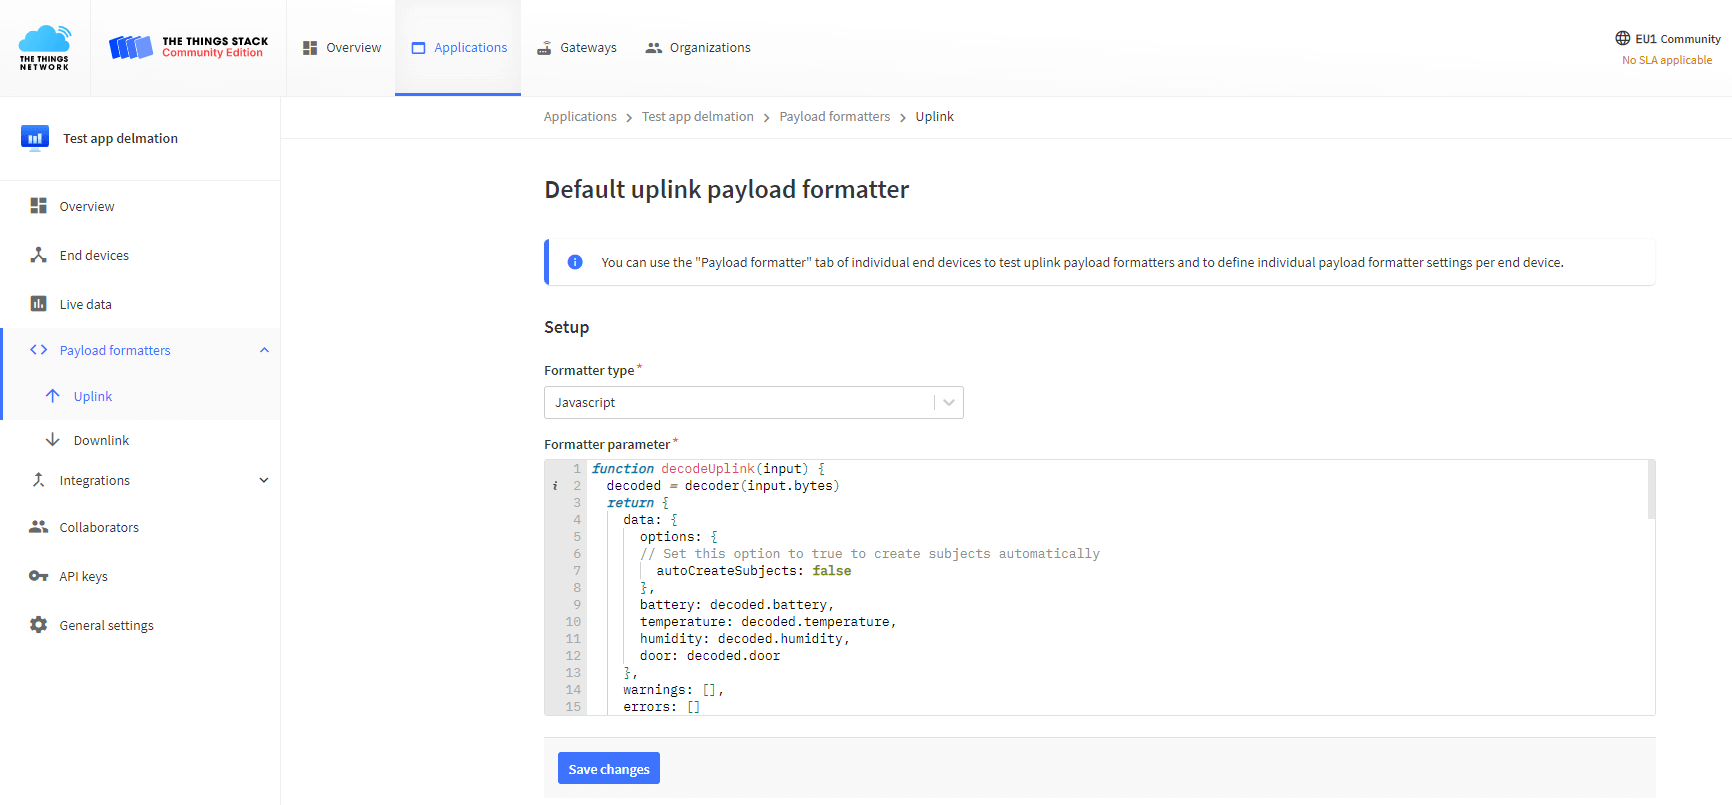
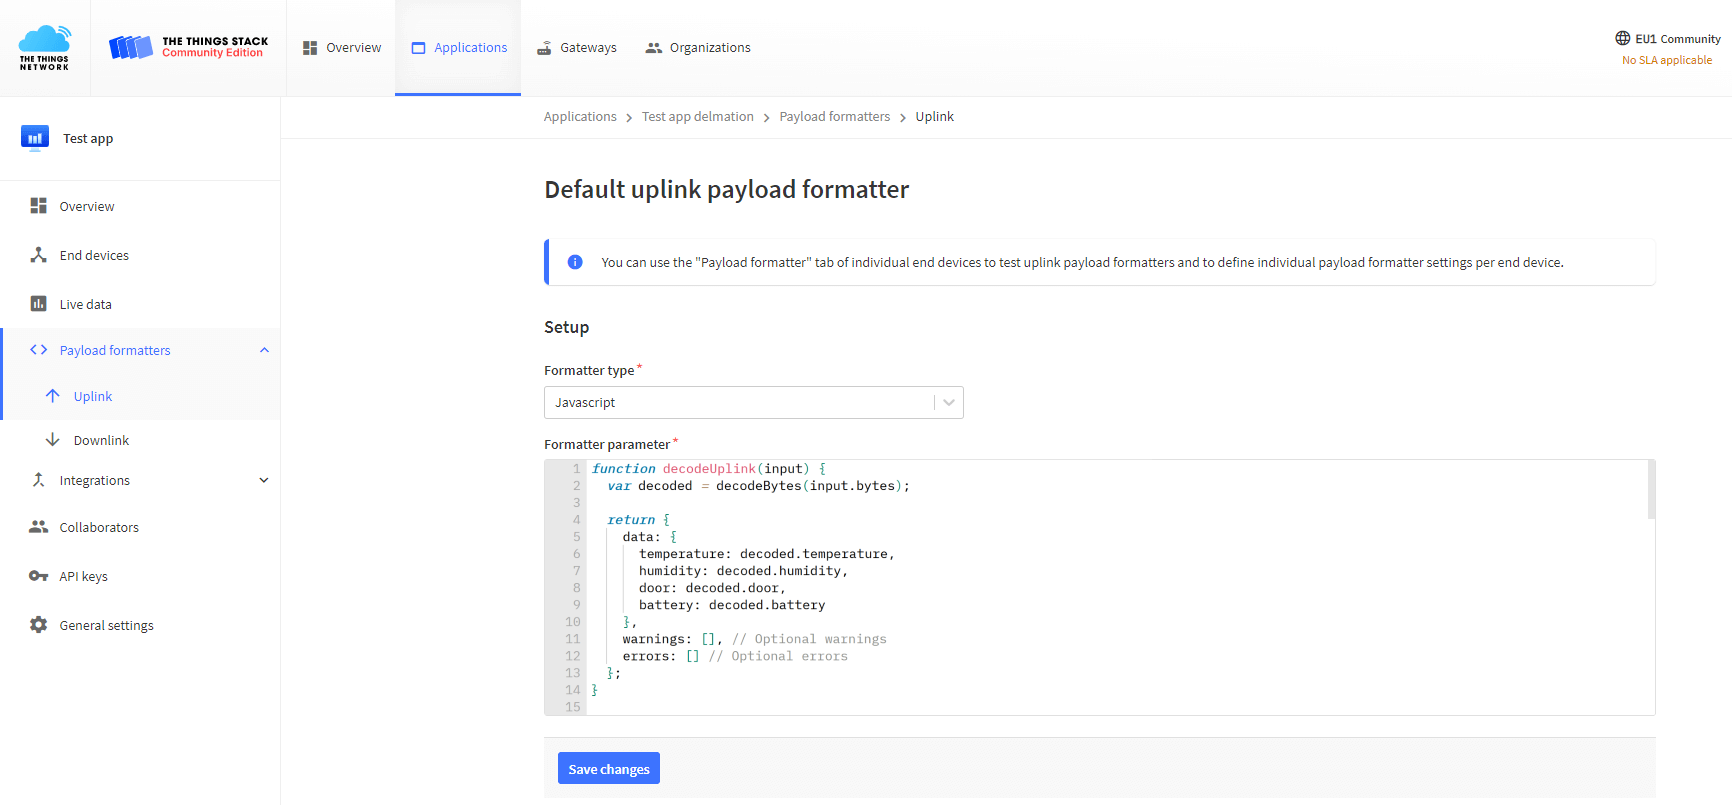
doc: Update Blockbax integration docs (#753)
* Moved the auto-create subjects payload parameter to webhook settings
* Update image accordingly
* Other small tweaks

Changed region(s): [[0.343, 0.559, 0.6236, 0.9006], [0.0624, 0.1553, 0.0935, 0.1863]]

diff --git a/doc/content/integrations/cloud-integrations/blockbax/_index.md b/doc/content/integrations/cloud-integrations/blockbax/_index.md
@@ -23,15 +23,15 @@ Check the [Blockbax documentation page](https://blockbax.com/docs/) for more inf
 
 [Login](https://login.blockbax.com/) to the Blockbax Platform.
 
-Create a [subject type](https://blockbax.com/docs/subjects/#managing-subject-types) and configure metrics. External IDs for these metrics  need to match the property names returned by the uplink payload formatter that will be [configured on {{% tts %}}]({{< ref "/integrations/cloud-integrations/blockbax#configure-the-things-stack" >}}).
+Create a [subject type](https://blockbax.com/docs/subjects/#managing-subject-types) and configure metrics. External IDs for these metrics need to match the property names returned by the uplink payload formatter that will be [configured on {{% tts %}}]({{< ref "/integrations/cloud-integrations/blockbax#configure-the-things-stack" >}}).
 
 {{< figure src="blockbax-metric-external-id-in-payload.png" alt="Relating Blockbax metrics to the Things Stack" >}}
 
-Additionally, you can choose to [create subjects](https://blockbax.com/docs/subjects/#creating-subjects) manually with external IDs matching the device IDs. You can also set the `autoCreateSubjects` option in {{% tts %}} payload formatter function to `true`, so in case a subject does not exist, an automatic subject creation will be performed.
-
 ## Configure {{% tts %}}
 
-Make sure your device is added to {{% tts %}}. See [Adding Devices](https://www.thethingsindustries.com/docs/devices/adding-devices/) for more info.
+Make sure your device is added to {{% tts %}}. See [Adding Devices]({{< ref "/devices/adding-devices" >}}) for more info. Many [Device Repository]({{< ref "/integrations/payload-formatters/device-repo" >}}) payload formatters output payloads such that it can be directly ingested by the Blockbax Platform. If this is not the case, then please follow the instruction below to create a custom payload formatter.
+
+### Create payload formatter
 
 On the left menu of your {{% tts %}} application, select **Payload formatters &#8594; Uplink**.
 
@@ -44,11 +44,6 @@ function decodeUplink(input) {
     decoded = decoder(input.bytes)
     return {
         data: {
-            options: {
-                // Set this option to true to create subjects automatically
-                autoCreateSubjects: false
-            },
-
             // For numeric metrics
             <Blockbax-external-metric-ID>: decoded.exampleNumber,
 
@@ -79,10 +74,6 @@ The functions presented above need to be modified against your setup. See exampl
       decoded = decoder(input.bytes)
       return {
         data: {
-          options: {
-          // Set this option to true to create subjects automatically
-            autoCreateSubjects: false
-          },
           battery: decoded.battery,
           temperature: decoded.temperature,
           humidity: decoded.humidity,
@@ -145,9 +136,15 @@ When done, click **Save changes**.
 
 {{< figure src="payload-formatter.png" alt="Setting up the payload formatter" >}}
 
-After preparing the payload formatter, use the Blockbax [Webhook template]({{< ref "/integrations/webhooks/webhook-templates" >}}) to create a Webhook integration on {{% tts %}}. Select **Integrations &#8594; Webhooks** on the left hand menu. Click **Add webhook** and select the **Blockbax** tile.
+### Create webhook
+
+Use the Blockbax [Webhook template]({{< ref "/integrations/webhooks/webhook-templates" >}}) to create a Webhook integration on {{% tts %}}. Select **Integrations &#8594; Webhooks** on the left hand menu. Click **Add webhook** and select the **Blockbax** tile.
+
+{{< figure src="webhook.png" alt="Setting up the webhook" >}}
 
 Enter an arbitrary **Webhook ID**, enter your **Project ID** and **[Access token](https://blockbax.com/docs/project-settings/#access-tokens)**. The project ID is contained in your project's URL, e.g. if the project URL is `app.blockbax.com/projects/40edc099-7a41-4af3-9fa4-2fa4bc23a87a/`, the project ID is `40edc099-7a41-4af3-9fa4-2fa4bc23a87a`.
+
+Additionally, you can choose to [create subjects](https://blockbax.com/docs/subjects/#creating-subjects) manually with external IDs matching the device IDs. In that case set the **Automatically create subjects?** option to `false`. The default `true` will create a subject automatically if a subject does not exist and if the property names returned by the uplink payload formatter match the external IDs for these metrics in the Blockbax platform (see above).
 
 To see the values of all parameters of the Blockbax integration, click on the integration after you created it with the Webhook template.
 
